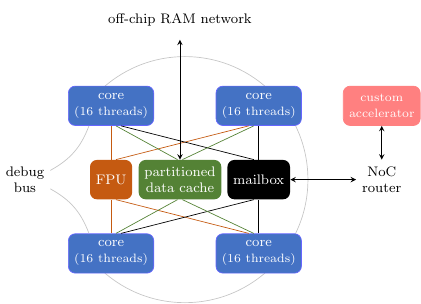
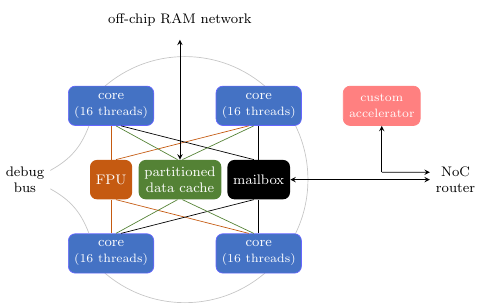
Clearer diagram

diff --git a/doc/figures/custom.tex b/doc/figures/custom.tex
@@ -60,11 +60,14 @@
 
   \node[draw=red!50, fill=red!50] (custom) at (12,7) {\scriptsize{custom}\\[-1mm]\scriptsize{accelerator}};
 
-  \node[text=black,fill=none] (noc) at (12,4)
+  \coordinate[] (junc) at (12,4.3) {};
+
+  \node[text=black,fill=none] (noc) at (15,4)
     {\footnotesize{NoC}\\[-1mm]
      \footnotesize{router}};
 
-  \draw[arrows=<->,>=stealth] (custom) to (noc);
+  \draw[arrows=<-,>=stealth] (custom) to (junc);
+  \draw[arrows=->,>=stealth] (junc) to ([yshift=3mm]noc.west);
 
   \draw[arrows=<->,>=stealth] (mbox) to (noc);
 

diff --git a/doc/custom/README.md b/doc/custom/README.md
@@ -168,7 +168,7 @@ into your home directory on Zitura.  Then, on Zitura:
 /local/tinsel/bin/fpga-power.sh off    # Turn worker FPGA off
 ```
 
-Users of Zitura are expected to coordinate with each another when
+Users of Zitura are expected to coordinate with one another when
 doing a reflash.  For example, announcing that you are doing a reflash
 on the POETS slack group (channel `#zitura`) would help avoid clashes
 and confusion.
